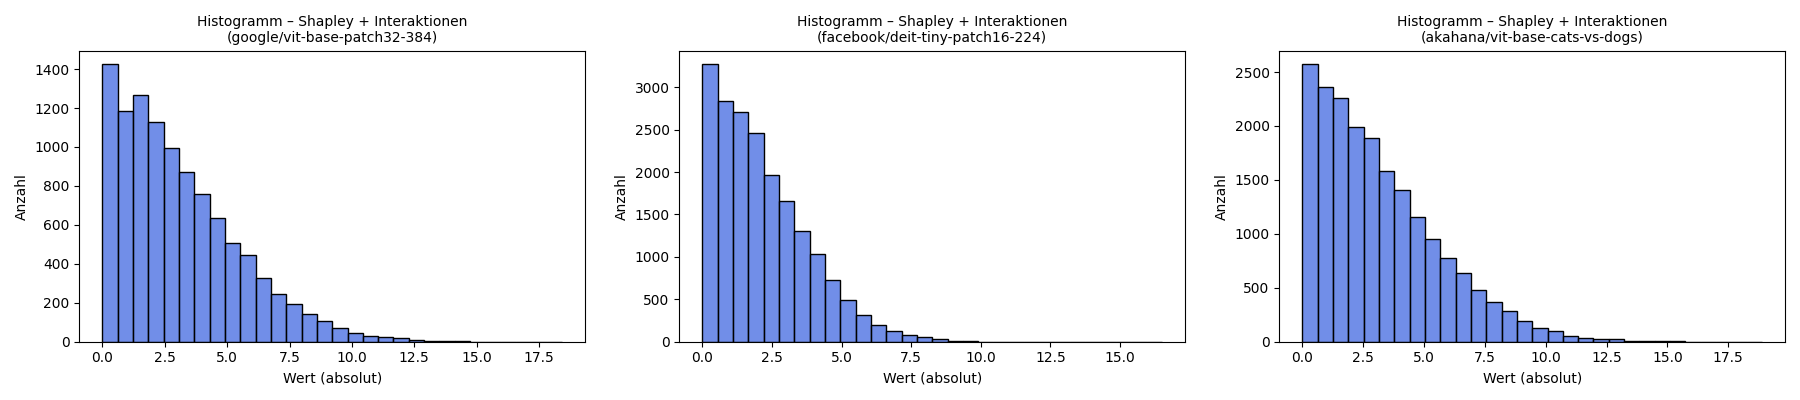
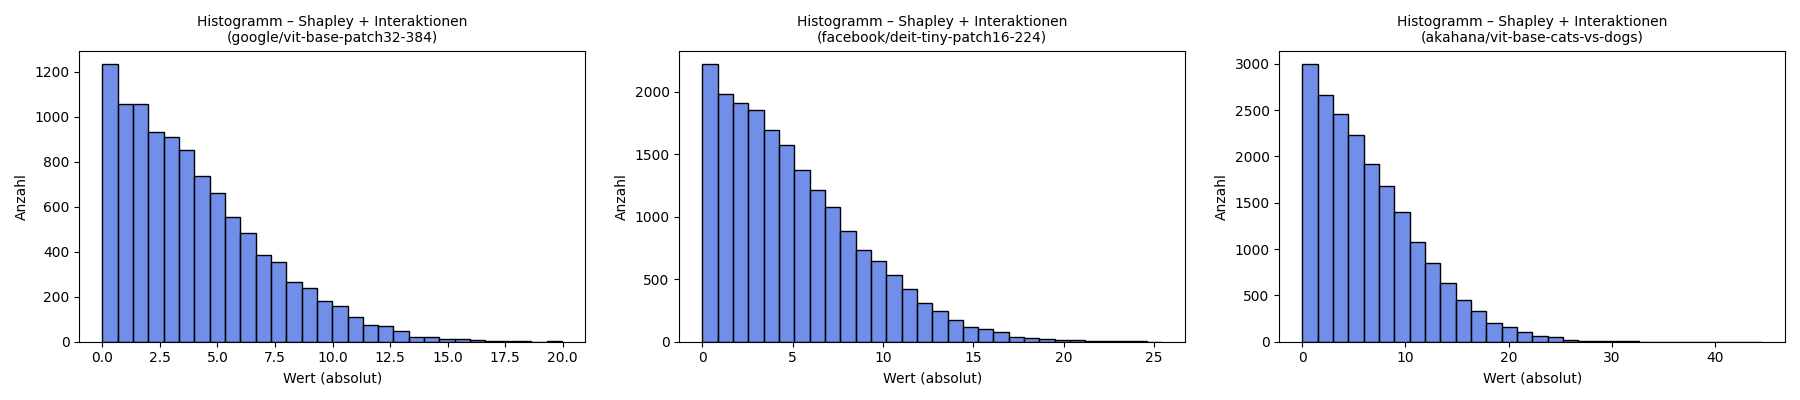
Aktueller Stand mit CUDA-Fix und GPU-Unterstützung

diff --git a/modelAnalysis copy.py b/modelAnalysis copy.py
@@ -211,10 +211,9 @@ for img_idx, image_path in enumerate(image_paths):
             max_order=2,
             pairing_trick=False,
             random_state=42,
-            n_jobs=-1
         )
         result = approximator.approximate(
-            budget = 64000,
+            budget = 1000,
             game=lambda c: value_function(
                 c,
                 processor, model, device, image,
